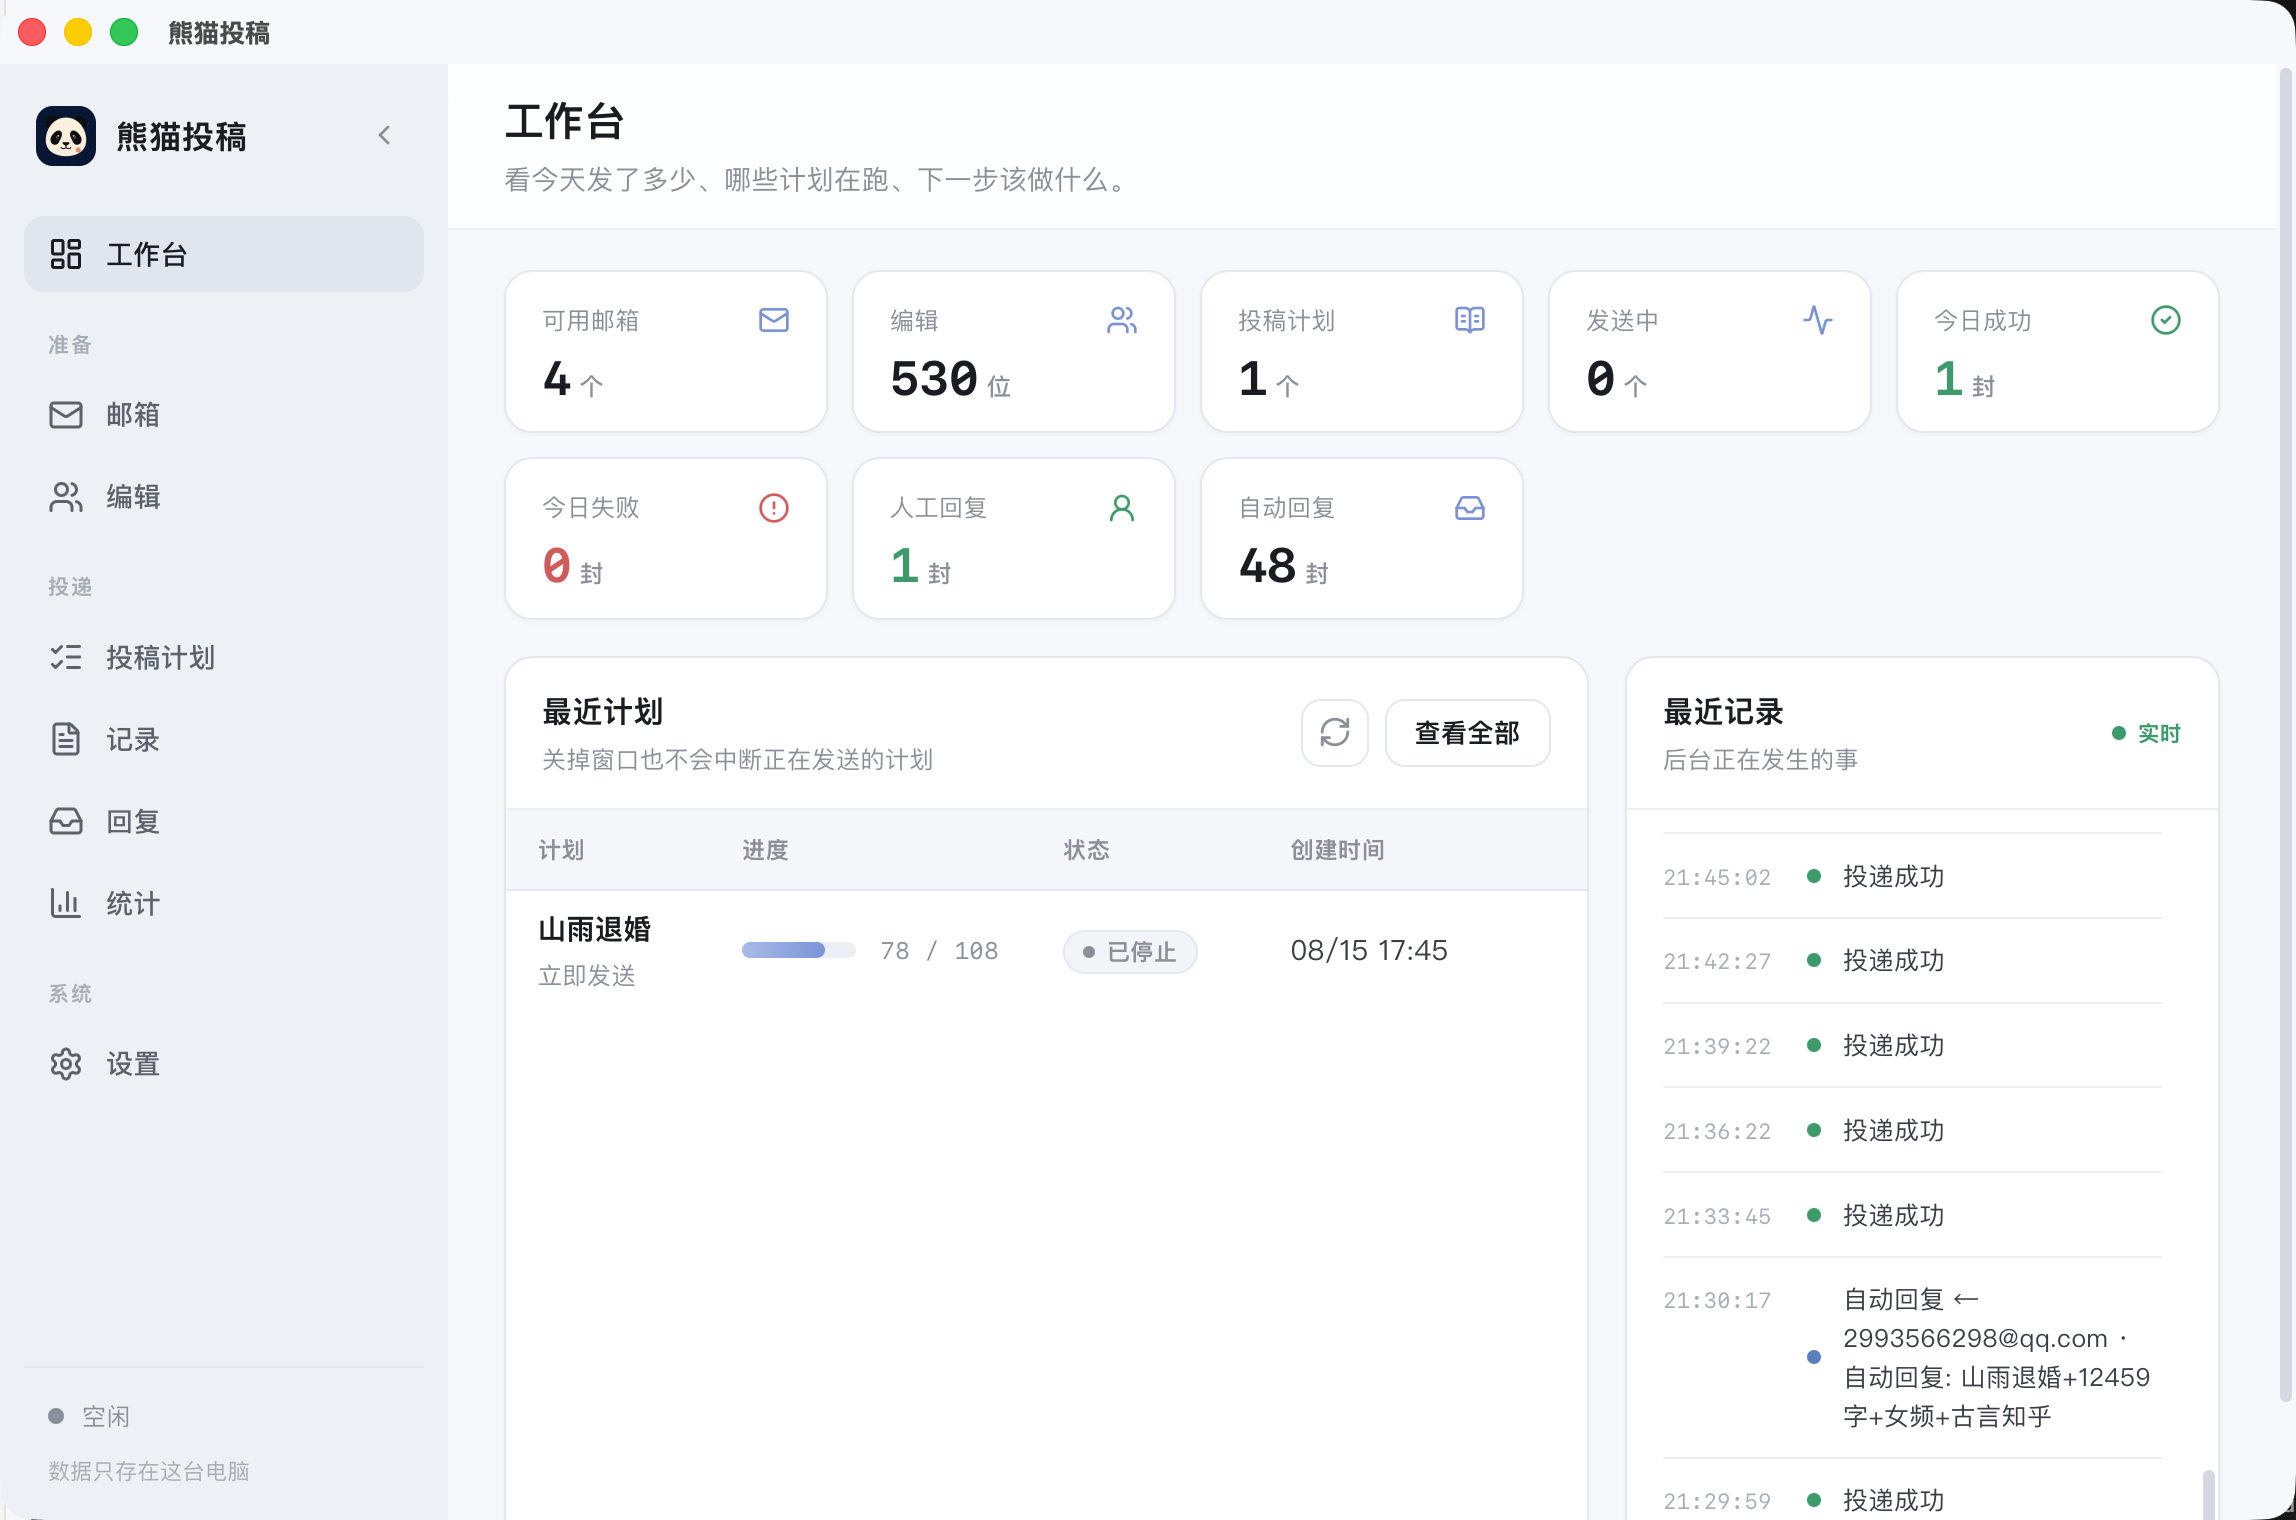
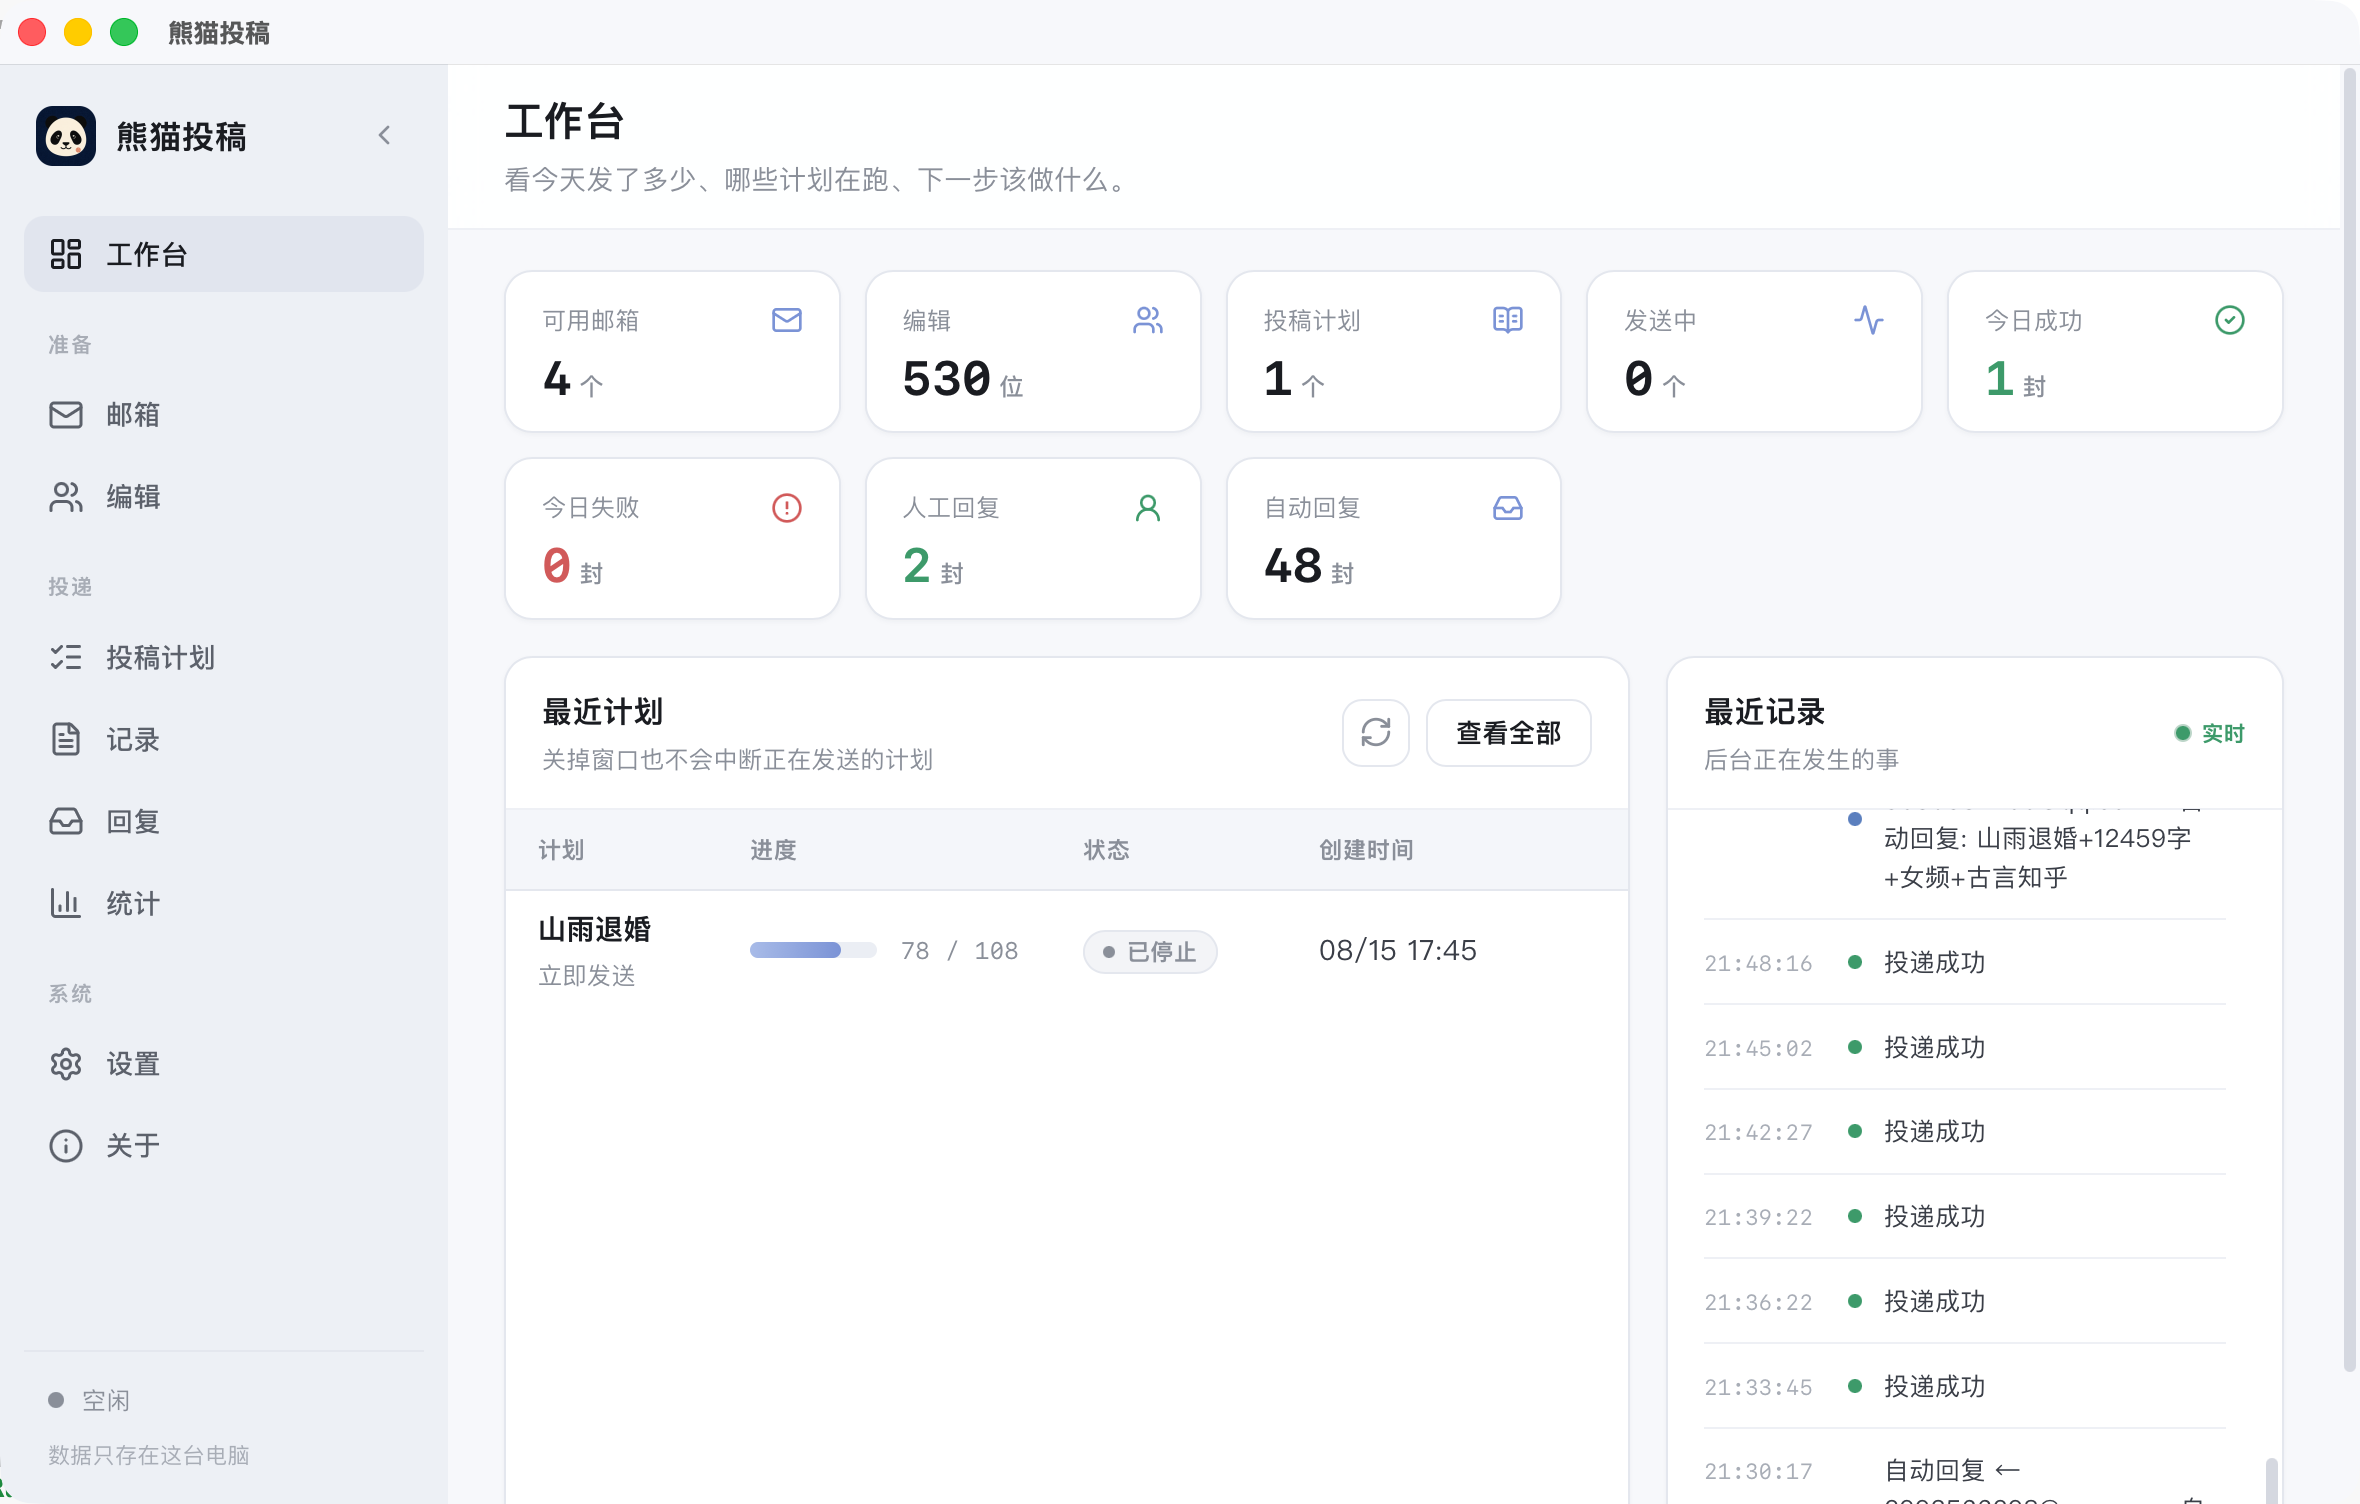
feat: 更新关于页面，添加项目说明和功能介绍
- 增加关于页面的详细描述，包括项目功能、版本信息和开源声明
- 更新页面布局，提升用户体验

diff --git a/src/views/About.tsx b/src/views/About.tsx
@@ -16,12 +16,30 @@ export function AboutView() {
   return (
     <div className="about-page">
       <section className="panel about-hero">
-      <div>
-      <img className="about-logo" src={logo} alt="" />
-      <h2>熊猫投稿</h2>
-      </div>
+        <img className="about-logo" src={logo} alt="" />
         <div>
-          <section className="panel about-section">
+          <h2>熊猫投稿</h2>
+          <p>面向小说作者的本地桌面投稿工具。把发件邮箱、编辑资料、作品信息、投稿计划和回复检查放在一起，帮助你有节奏地完成投稿。</p>
+          <p className="about-free">本项目<strong>完全开源免费</strong>，所有功能均可免费使用，不设付费墙。</p>
+          <div className="about-meta">
+            <span>版本 {version ? `v${version}` : '读取中…'}</span>
+            <span>标识 com.novelsub.desktop</span>
+            <span>数据仅保存在本机</span>
+          </div>
+          <a className="about-repo" href={PROJECT_URL} target="_blank" rel="noreferrer">
+            <ExternalLink size={14} />
+            {PROJECT_URL}
+          </a>
+        </div>
+      </section>
+
+      <section className="panel about-section">
+        <div className="panel-heading">
+          <div>
+            <h2>项目说明</h2>
+            <p>完全开源免费、本地优先，不上传你的稿件和邮箱授权码。</p>
+          </div>
+        </div>
         <div className="about-points">
           <article>
             <HardDrive size={18} />
@@ -50,10 +68,6 @@ export function AboutView() {
           </article>
         </div>
       </section>
-        </div>
-      </section>
-
-     
 
       <section className="panel about-section">
         <div className="panel-heading">
